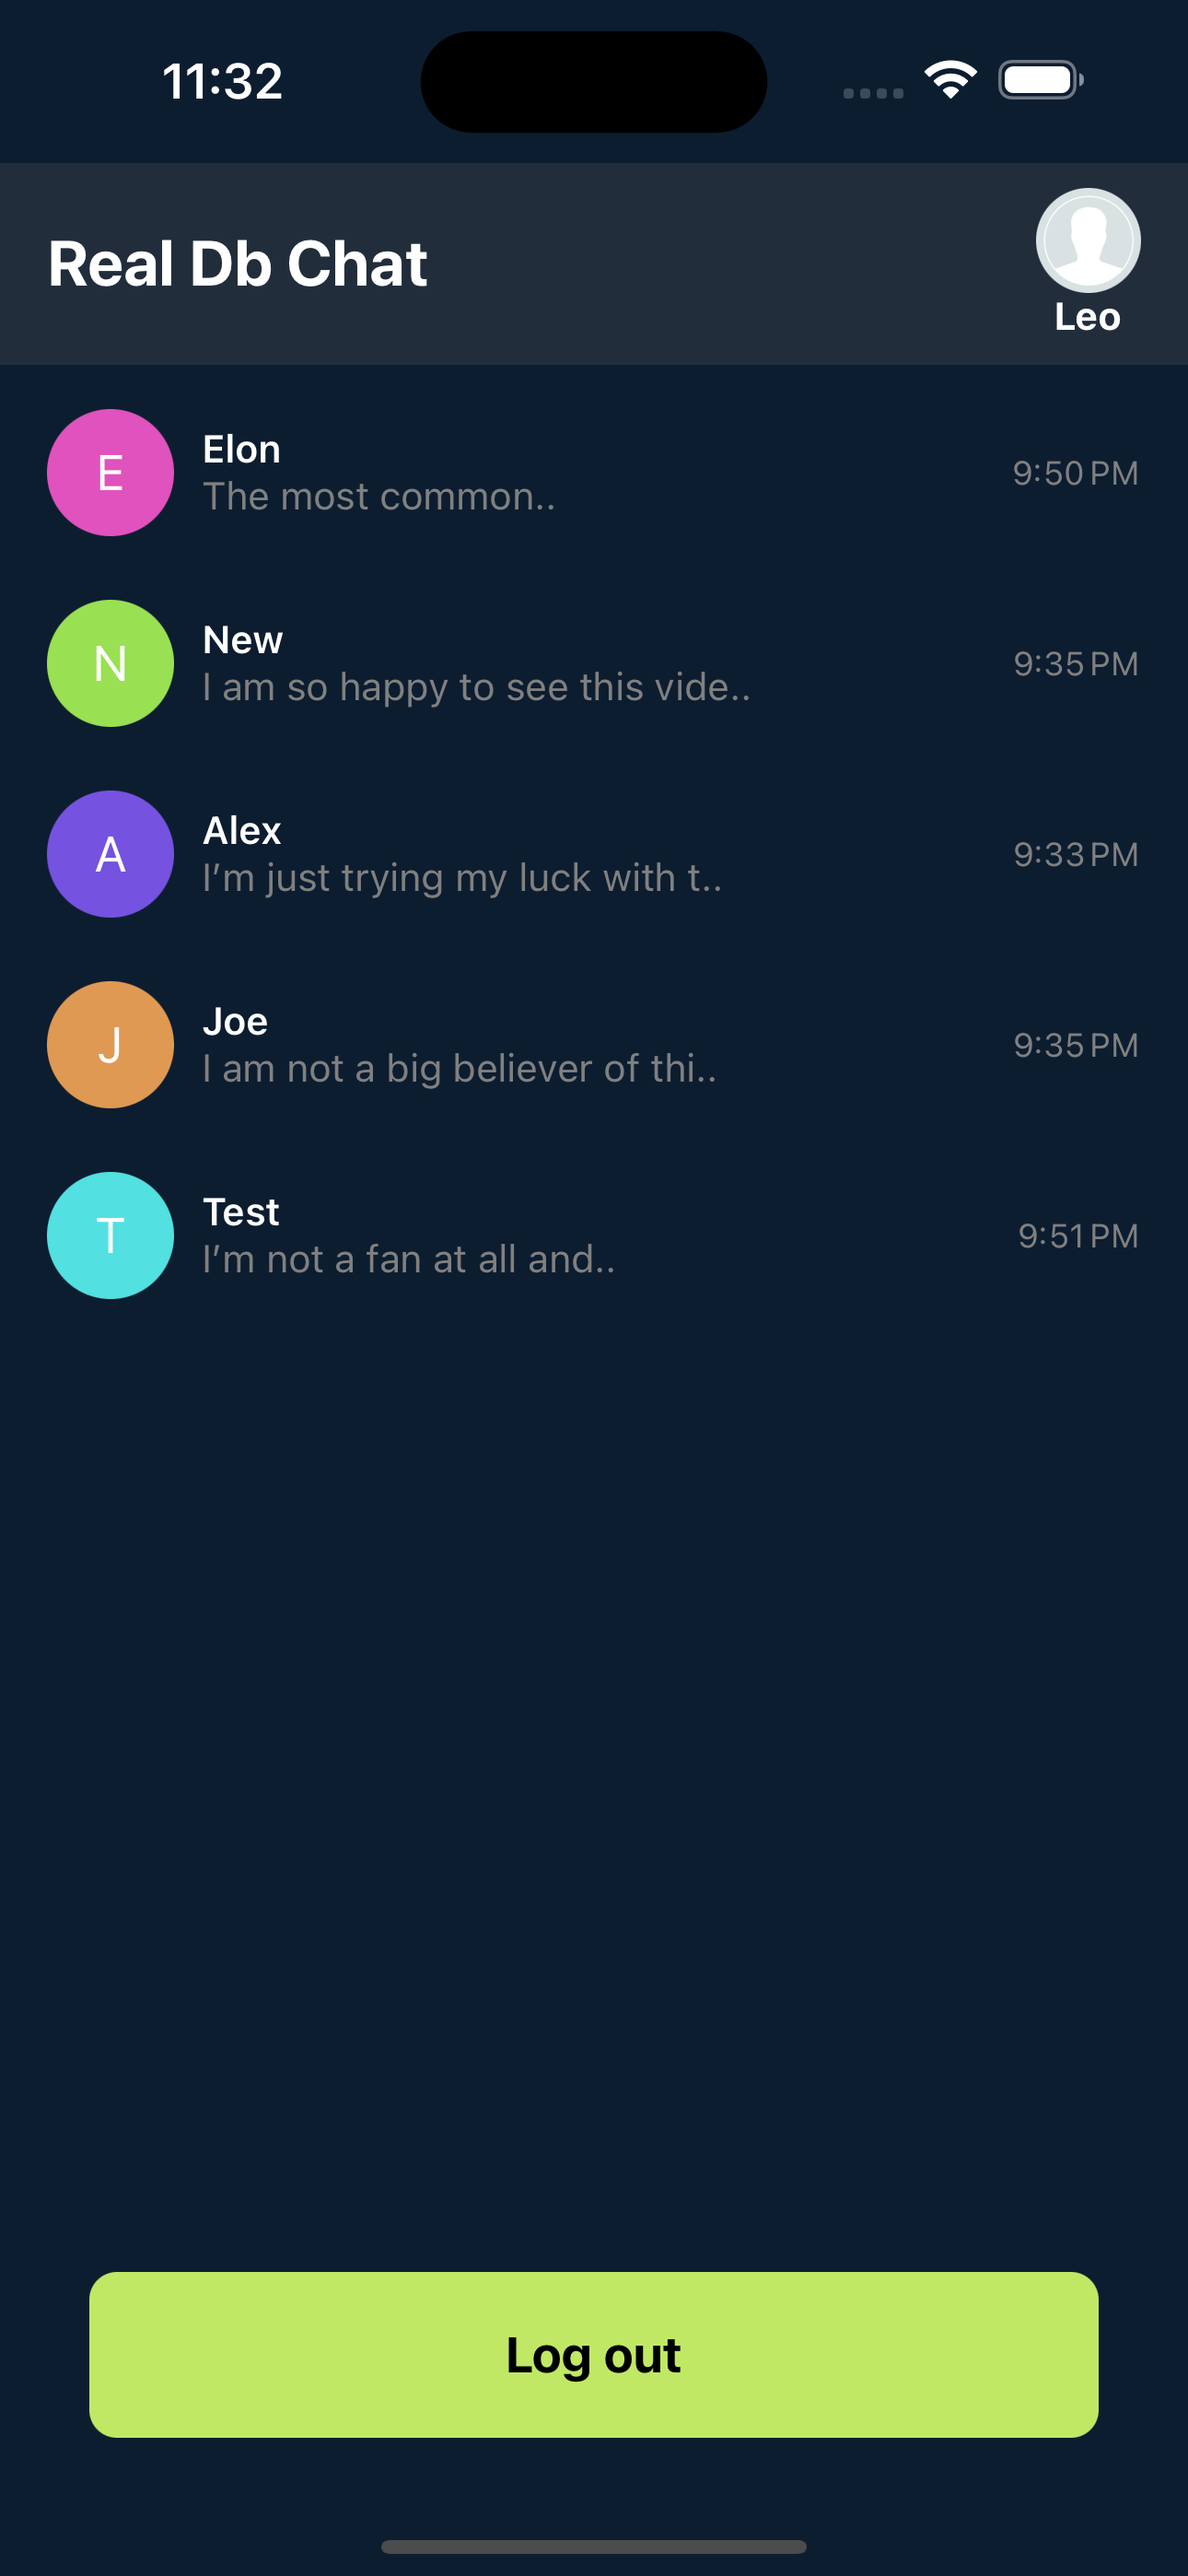
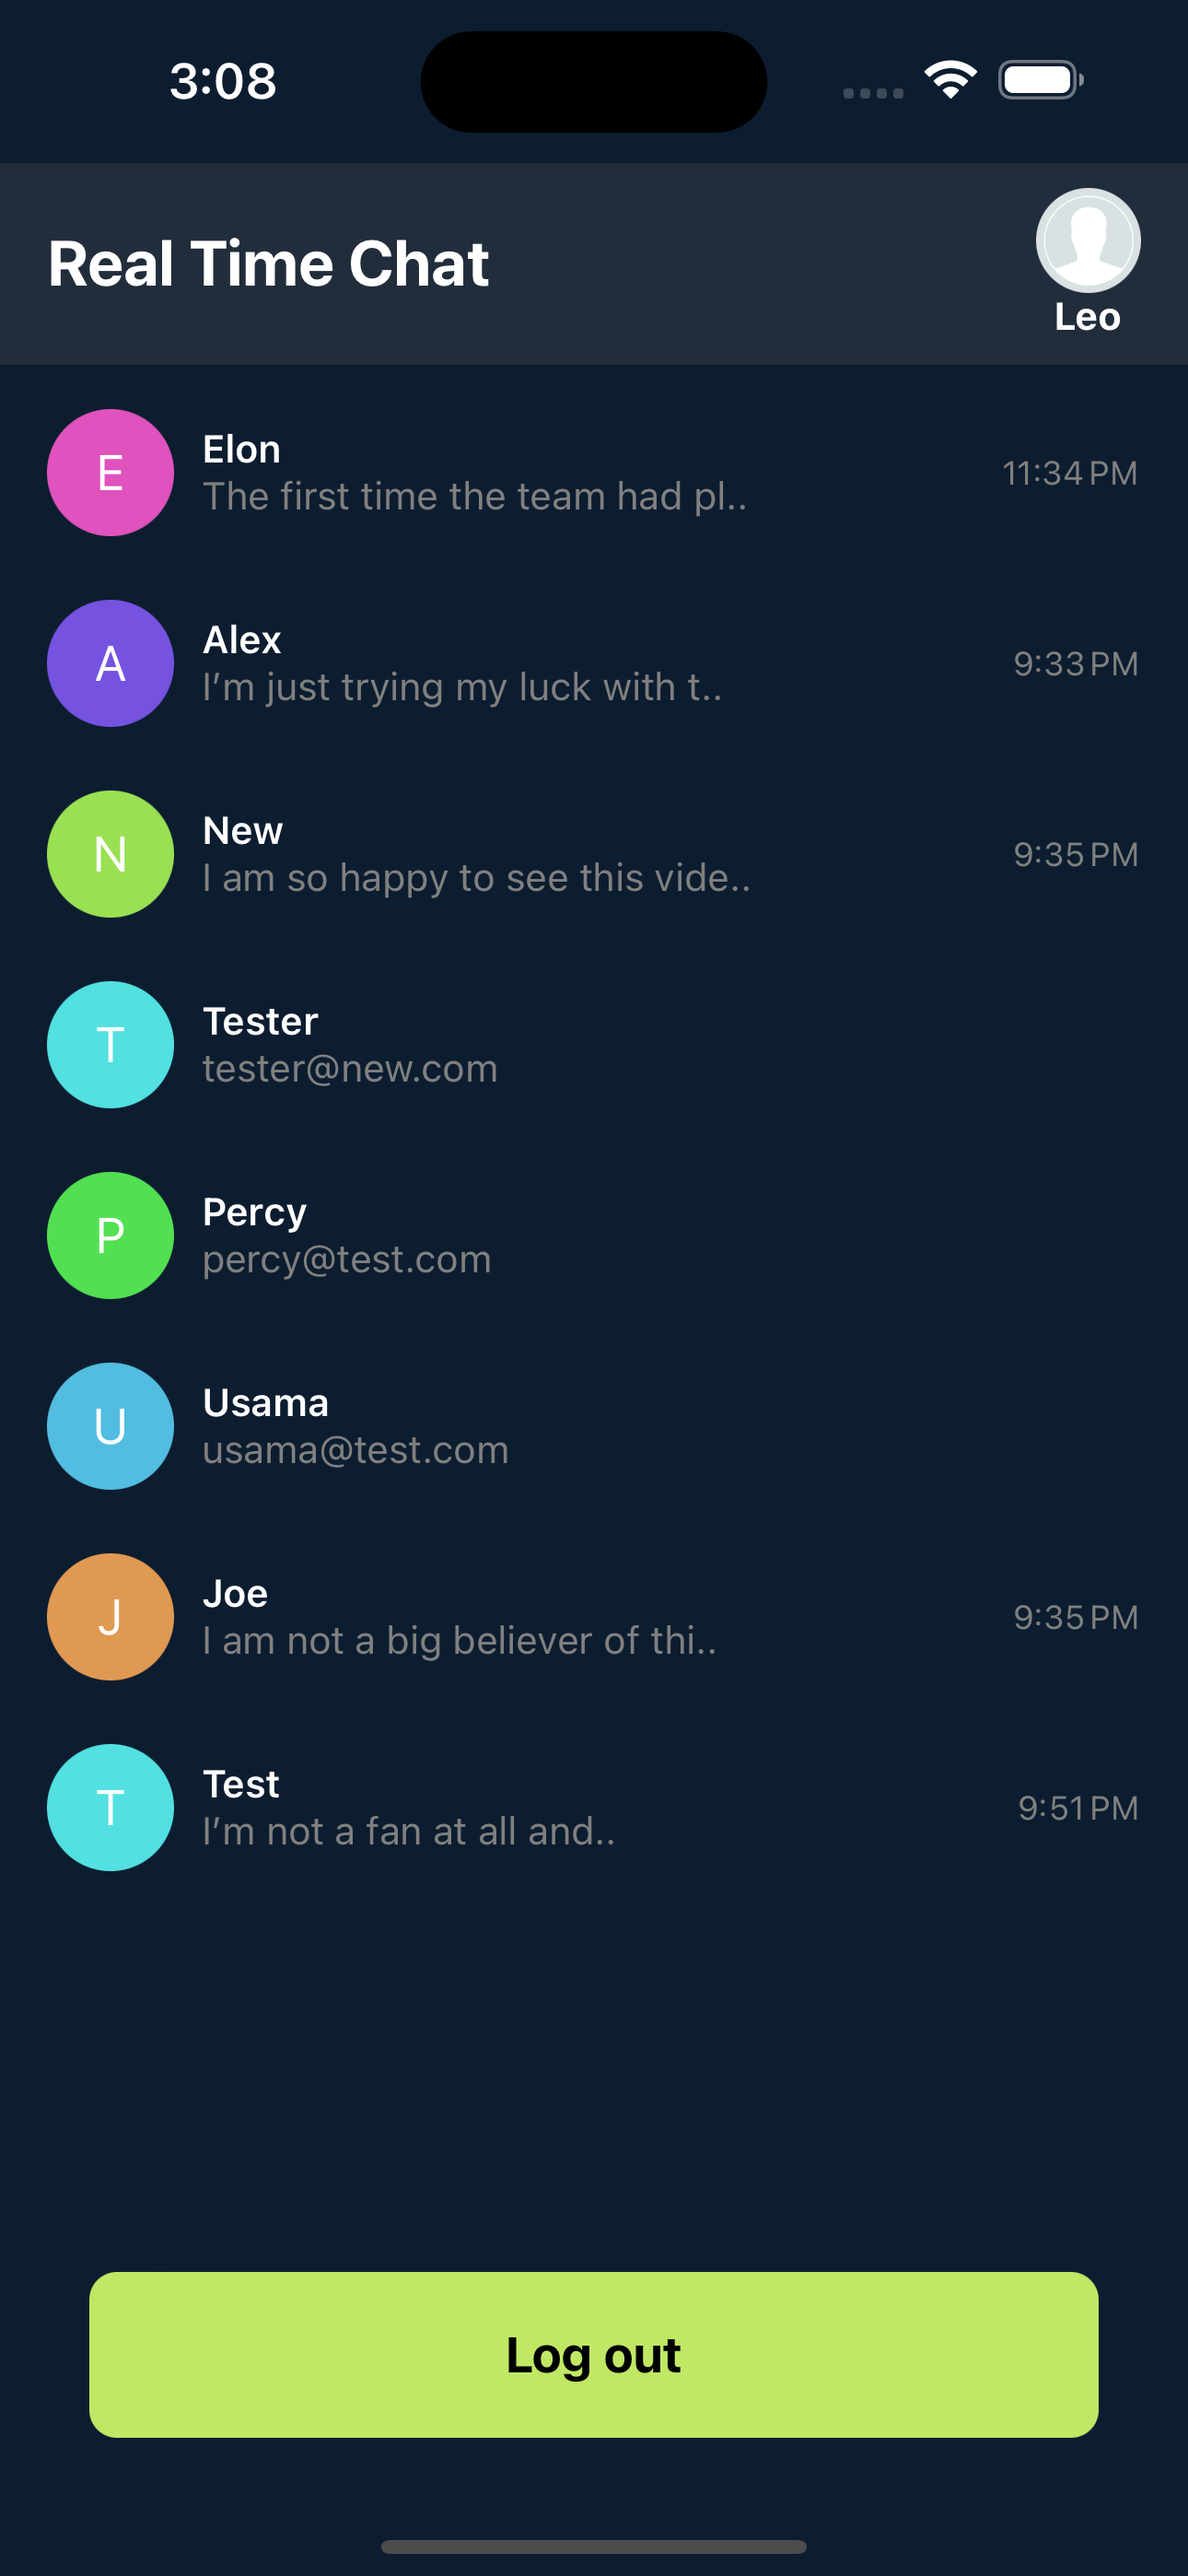
feat: update app name to RealTimeChat, adjust launch screen, and add Firebase chat functionality
- Changed app name in Info.plist and Xcode to RealTimeChat
- Updated launch screen to reflect the new app name
- Added Firebase chat feature with real-time messaging
- Included setup instructions in README file

diff --git a/src/components/Microsoft/MicrosoftSignInButton.tsx b/src/components/Microsoft/MicrosoftSignInButton.tsx
@@ -1,15 +1,16 @@
-import React from 'react';
-import {Pressable, Text, Image, StyleSheet, Alert} from 'react-native';
-import {images} from '../../assets/images';
-import {WPX} from '../../utils/responsiveness';
-import {ColorPane} from '../../theme/colorScheme';
+import React from "react";
+import { Pressable, Text, Image, StyleSheet, Alert } from "react-native";
+import { images } from "../../assets/images";
+import { WPX } from "../../utils/responsiveness";
+import { ColorPane } from "../../theme/colorScheme";
+import { STRINGS } from "../../utils/strings";
 
 export const MicrosoftSignInButton: React.FC = () => {
   const showAlert = () => {
     Alert.alert(
-      'Microsoft Login',
-      'You are about to log in using your Microsoft account. Please follow the prompts in read me.',
-      [{text: 'OK'}],
+      "Microsoft Login",
+      "You are about to log in using your Microsoft account. Please follow the prompts in read me.",
+      [{ text: "OK" }]
     );
   };
   return (
@@ -19,15 +20,15 @@ export const MicrosoftSignInButton: React.FC = () => {
         source={images.microSoft}
         style={styles.logo}
       />
-      <Text style={styles.microsoftText}>Login with Microsoft</Text>
+      <Text style={styles.microsoftText}>{STRINGS.LoginMicrosoft}</Text>
     </Pressable>
   );
 };
 
 const styles = StyleSheet.create({
   microsoftButton: {
-    flexDirection: 'row',
-    alignItems: 'center',
+    flexDirection: "row",
+    alignItems: "center",
     gap: WPX(40),
     paddingVertical: WPX(10),
     paddingHorizontal: WPX(20),
@@ -40,8 +41,8 @@ const styles = StyleSheet.create({
     width: WPX(35),
   },
   microsoftText: {
-    color: 'white',
+    color: "white",
     fontSize: WPX(14),
-    fontWeight: 'bold',
+    fontWeight: "bold",
   },
 });

diff --git a/src/utils/strings.ts b/src/utils/strings.ts
@@ -5,7 +5,7 @@ export const STRINGS = {
   SIGN_IN: 'Login',
   loginText: "Login",
   signupText: 'Register',
-  HEADER_TITLE: 'Real Db Chat',
+  HEADER_TITLE: 'Real Time Chat',
   ONLINE: 'Online',
   emailPlaceholder: 'Email',
   passwordPlaceholder: 'Password',
@@ -13,5 +13,6 @@ export const STRINGS = {
   submittingButtonText: 'Submitting...',
   joinedText: 'Joined us before?',
   alreadyJoinedText: "Don't have an account?",
-  Buffer: 'No error'
+  Buffer: 'No error',
+  LoginMicrosoft: 'Login with Microsoft'
 };
